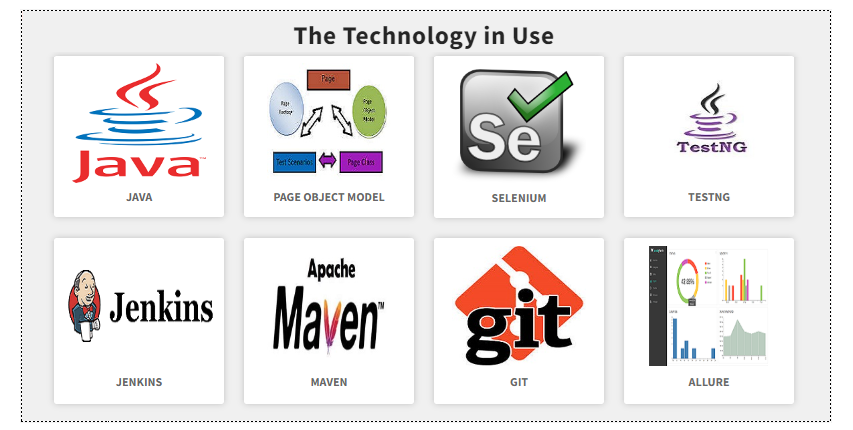
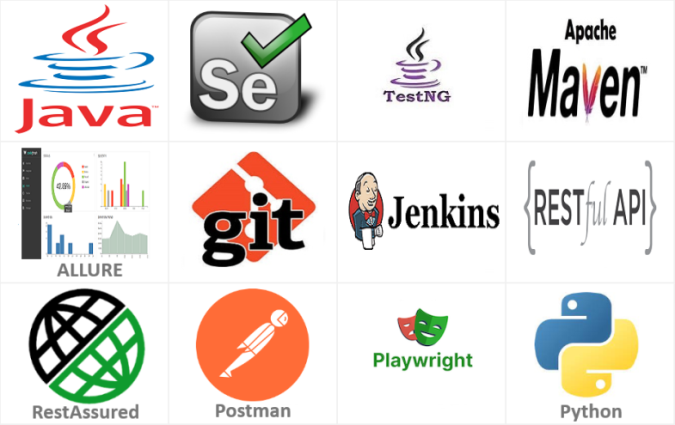
Add Tech

diff --git a/index.html b/index.html
@@ -151,13 +151,15 @@
 						traits & qualities: &nbsp;<strong style="color:rgb(255, 0, 0); font-size:120%;">➜</strong>
 						<button onclick="showText1()">click to Show More \ Hide it</button>
 					</p>
-					<!-- hidden-text 1 to be shown on click -->
-					<div id="hiddenText1" style="display:none">
+					<div>
 						<ul> <!-- un-ordered List with Items -->
 							<li>I'm a certified <b>Professional Software QA</b>, with 17 years hands-on experience
 								&nbsp;Testing Client \ Server (also Linux) &nbsp;Applications.</li>
 							<li>Products I worked on, were deployed on varied Platforms with Complex Architectures
-								(including on 'Cloud', with micro-services).</li>
+								(including on GCP, with micro-services) <b style="color:crimson;">...</b></li>
+						</ul>
+						<!-- hidden-text 1 to be shown on click -->
+						<ul id="hiddenText1" style="display:none">
 							<li>Products' Relevant Data (being used for testing), resided on several kind of Data·Bases
 								(including both&nbsp; SQL & &nbsp;Non·SQL &nbsp;DBs).</li>
 							<li>I got extensive experience in Test Planning & Execution of &nbsp;<b>Functionality</b>,
@@ -190,7 +192,7 @@
 						}
 					</script>
 					<br>
-					<p>&nbsp;&#128073;&nbsp; &nbsp; <strong>Recommenders</strong> (former directors, managers & peers)
+					<p>&nbsp;&#128073;&nbsp; &nbsp; <strong style="color:crimson;">Recommenders</strong> (former directors, managers & peers)
 						&nbsp;–&nbsp; Available, and would be supplied upon request with advance notice.</p>
 					<br>
 				</div>
@@ -201,9 +203,13 @@
 						&nbsp;<strong style="color:rgb(255, 0, 0); font-size:120%;">➜</strong>
 						<button onclick="showText2()"> Show Skills... \ Hide them</button>
 					</p>
-					<!-- hidden-text 2 -->
-					<div id="hiddenText2" style="display:none">
+					<div>
 						<ul>
+							<li style="color:crimson;"><b>Test Automation - Tech Used Logos</b> &nbsp; (click above, to see All Skills)<br>
+								<img src="img/techUsed.png"></li>
+						</ul>
+						<!-- hidden-text 2 -->
+						<ul id="hiddenText2" style="display:none">
 							<li>Automation Tests :&nbsp; Write Tests and related Infra using Java + Selenium, TestNG,
 								GIT, Maven, Jenkins & more</li>
 							<li><a href="#portfolio">My Automation Project</a><!-- focus on portfolio section -->
